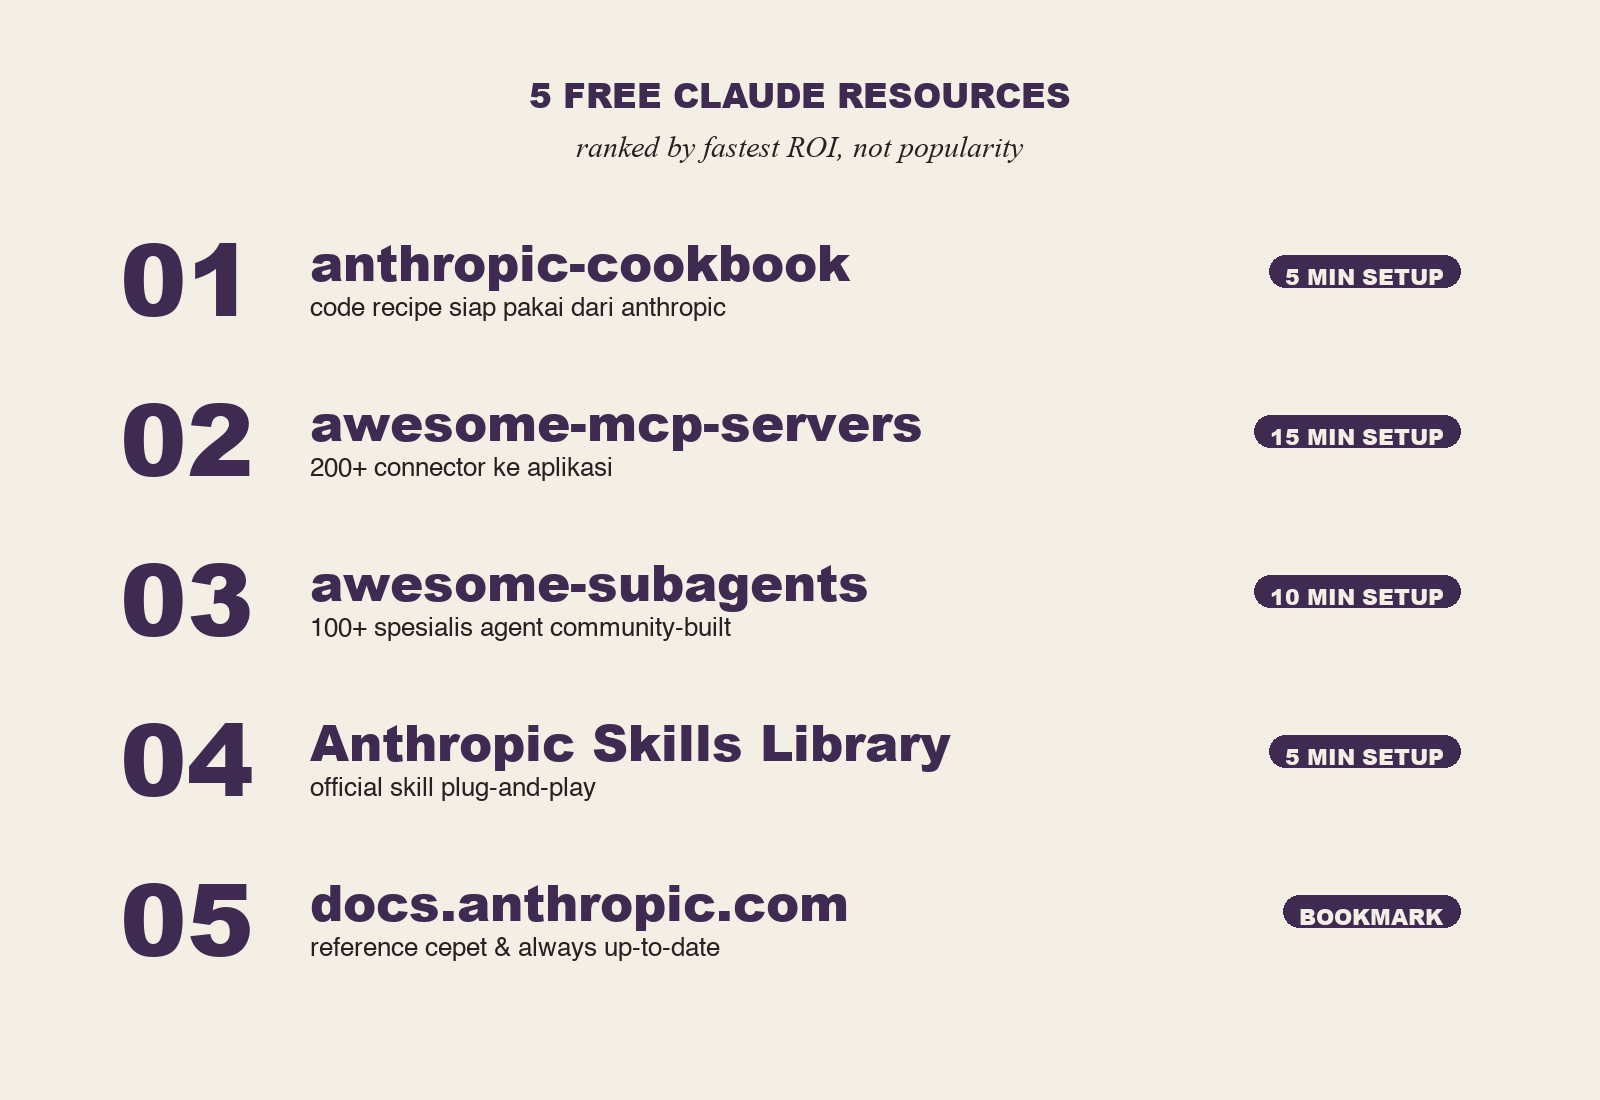
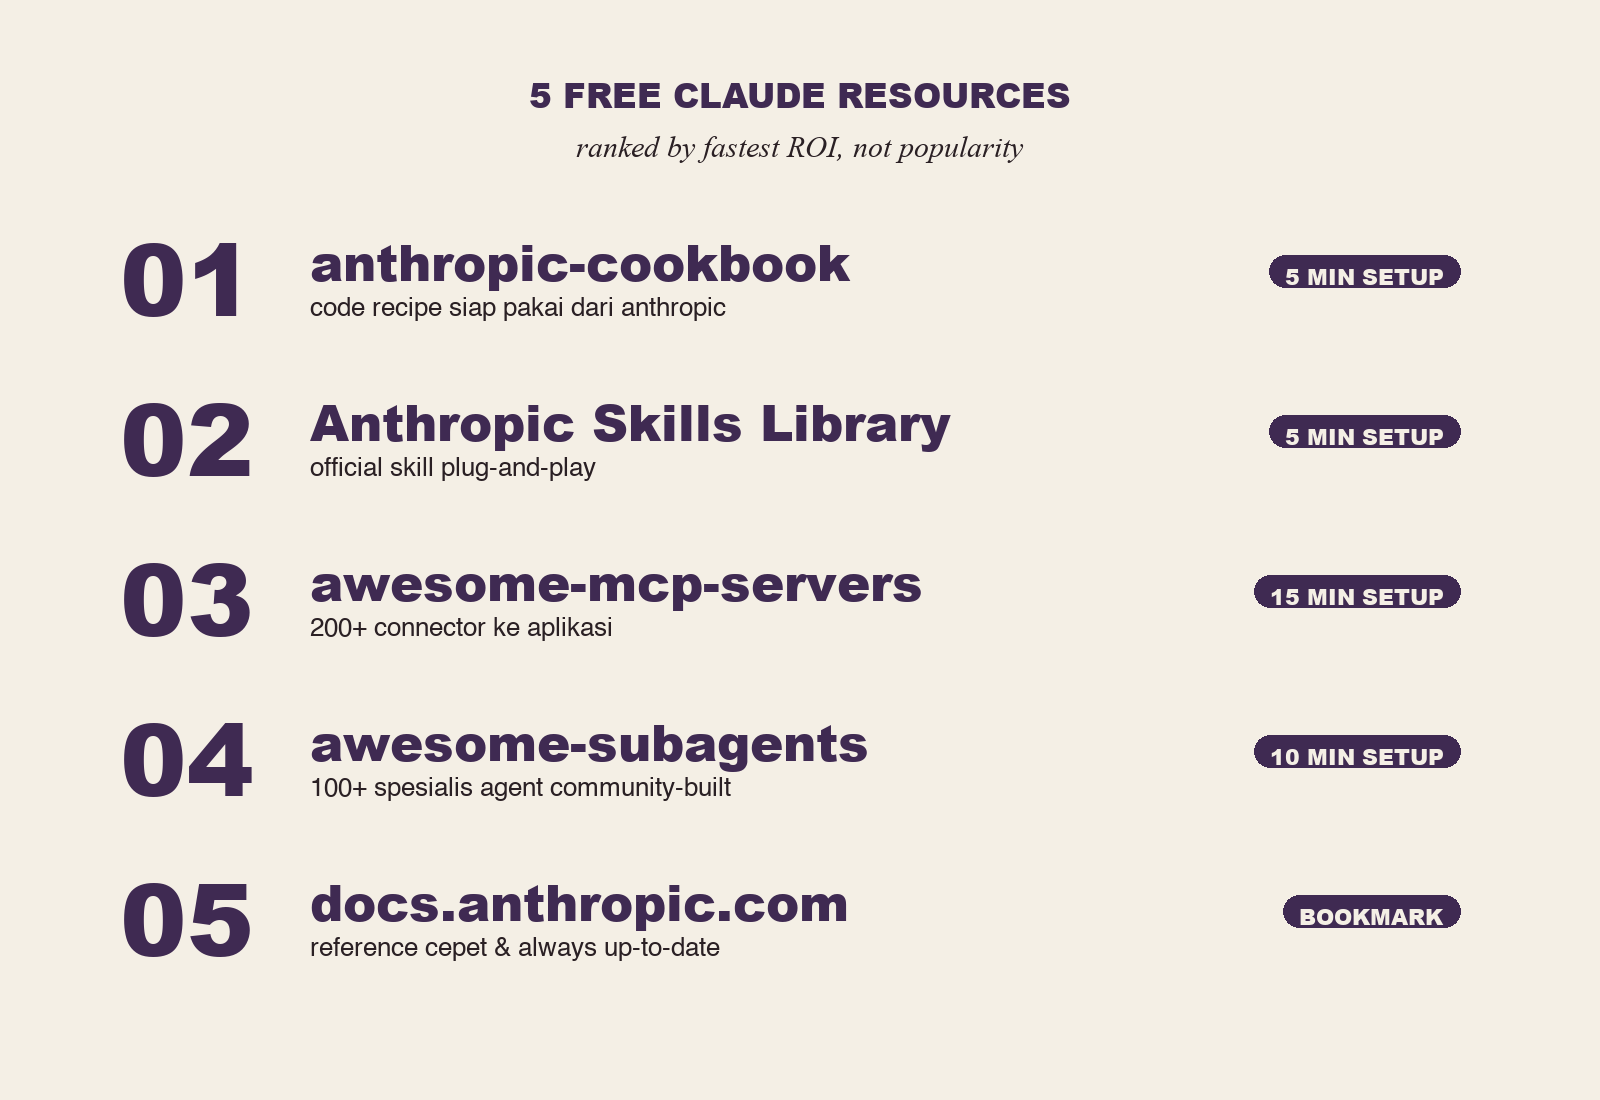
content(blog): reorder free resources to put Skills Library at #2
New order: cookbook, Skills Library, mcp-servers, subagents, docs.
Renumbered headings, updated the recommender prompt's numbered
list, and regenerated the hero image.

diff --git a/lib/guide-content.ts b/lib/guide-content.ts
@@ -281,36 +281,36 @@ selesai.`,
       ],
     },
     {
-      heading: "2. awesome-mcp-servers (GitHub)",
+      heading: "2. Anthropic Skills Library (claude.ai)",
+      icon: "sparkles",
+      paragraphs: [
+        "Link: claude.ai/customize/skills",
+        "Kenapa di nomor 2: ini koleksi skill resmi dari Anthropic. Plug ke chat kamu kayak install app, dan Claude langsung jadi spesialis di task itu.",
+        "Yang bisa kamu langsung pake: code-reviewer (review pull request kamu), test-writer (auto-generate unit test), doc-generator (bikin dokumentasi dari kode), performance-analyzer (cari bottleneck), security-audit (OWASP top 10 scan), refactor-pro (safe large refactor).",
+        "Beda dari sub-agent community: Skills library itu official dan terjamin kualitas-nya, tapi koleksi-nya lebih kecil dan general-purpose. Sub-agent community lebih niche tapi quality vary.",
+        "Yang aku pake: doc-generator buat update README repo Haru tiap kali ada major change.",
+      ],
+    },
+    {
+      heading: "3. awesome-mcp-servers (GitHub)",
       icon: "plug",
       paragraphs: [
         "Link: github.com/punkpeye/awesome-mcp-servers",
-        "Kenapa di nomor 2: MCP itu Model Context Protocol, protocol yang nge-connect Claude ke literally apapun. Repo ini punya 200 lebih server siap pakai. Notion, Linear, Stripe, Slack, Drive, sampe printer di rumah kamu, semua udah ada.",
+        "Kenapa di nomor 3: MCP itu Model Context Protocol, protocol yang nge-connect Claude ke literally apapun. Repo ini punya 200 lebih server siap pakai. Notion, Linear, Stripe, Slack, Drive, sampe printer di rumah kamu, semua udah ada.",
         "Yang bisa kamu langsung pake (paling populer): Notion MCP (Claude baca dan tulis ke workspace Notion kamu), Stripe MCP (Claude akses revenue, customer, transaksi), Linear MCP (Claude baca dan bikin ticket), Postgres MCP (Claude query database kamu langsung), Filesystem MCP (Claude akses folder lokal kamu).",
-        "Yang aku pake: aku connect Claude ke Stripe Haru lewat MCP. Sekarang tiap pagi Claude kirim summary revenue 24 jam terakhir ke Slack DM aku tanpa aku login dashboard Stripe sama sekali.",
+        "Yang aku pake: aku connect Claude ke Stripe bisnis lewat MCP. Sekarang tiap pagi dia kasih revenue summary tanpa aku login dashboard Stripe sama sekali.",
         "Beda dari Anthropic connector official: connector official di claude.ai cuma cover ~10 apps populer. MCP cover 200+ termasuk niche tools dan setup custom.",
       ],
     },
     {
-      heading: "3. awesome-claude-code-subagents (GitHub)",
+      heading: "4. awesome-claude-code-subagents (GitHub)",
       icon: "users",
       paragraphs: [
         "Link: github.com/hesreallyhim/awesome-claude-code-subagents",
-        "Kenapa di nomor 3: 100 lebih sub-agent yang community bikin gratis. Tiap sub-agent itu basically Claude yang udah di-training khusus buat task spesifik. Ga generic kayak default Claude, tapi laser-focused.",
+        "Kenapa di nomor 4: 100 lebih sub-agent yang community bikin gratis. Tiap sub-agent itu basically Claude yang udah di-training khusus buat task spesifik. Ga generic kayak default Claude, tapi laser-focused.",
         "Yang bisa kamu langsung pake: cv-screener (review dan rank CV berdasarkan job desc), security-auditor (scan codebase kamu buat vulnerability), doc-writer (generate dokumentasi dari kode), refactor-pro (refactor large codebase secara aman), test-writer (generate unit test otomatis).",
         "Yang aku pake: cv-screener buat review 50 CV per minggu di Haru. Ranked output dengan skor 1-10 plus alasan. 4 menit total vs 6 jam manual.",
         "Caveat: karena community-built, kualitasnya bervariasi. Cek star count dan last-updated date sebelum install.",
-      ],
-    },
-    {
-      heading: "4. Anthropic Skills Library (claude.ai)",
-      icon: "sparkles",
-      paragraphs: [
-        "Link: claude.ai/customize/skills",
-        "Kenapa di nomor 4: ini koleksi skill resmi dari Anthropic. Plug ke chat kamu kayak install app, dan Claude langsung jadi spesialis di task itu.",
-        "Yang bisa kamu langsung pake: code-reviewer (review pull request kamu), test-writer (auto-generate unit test), doc-generator (bikin dokumentasi dari kode), performance-analyzer (cari bottleneck), security-audit (OWASP top 10 scan), refactor-pro (safe large refactor).",
-        "Beda dari sub-agent community: Skills library itu official dan terjamin kualitas-nya, tapi koleksi-nya lebih kecil dan general-purpose. Sub-agent community lebih niche tapi quality vary.",
-        "Yang aku pake: doc-generator buat update README repo Haru tiap kali ada major change.",
       ],
     },
     {
@@ -348,9 +348,9 @@ KONTEKS AKU:
 
 5 RESOURCE GRATIS YANG ADA:
 1. anthropic-cookbook (code recipe siap pakai)
-2. awesome-mcp-servers (200+ connector ke aplikasi)
-3. awesome-claude-code-subagents (100+ spesialis agent)
-4. Anthropic Skills Library (skill official)
+2. Anthropic Skills Library (skill official plug-and-play)
+3. awesome-mcp-servers (200+ connector ke aplikasi)
+4. awesome-claude-code-subagents (100+ spesialis agent)
 5. docs.anthropic.com (reference)
 
 TOLONG KASIH AKU:
